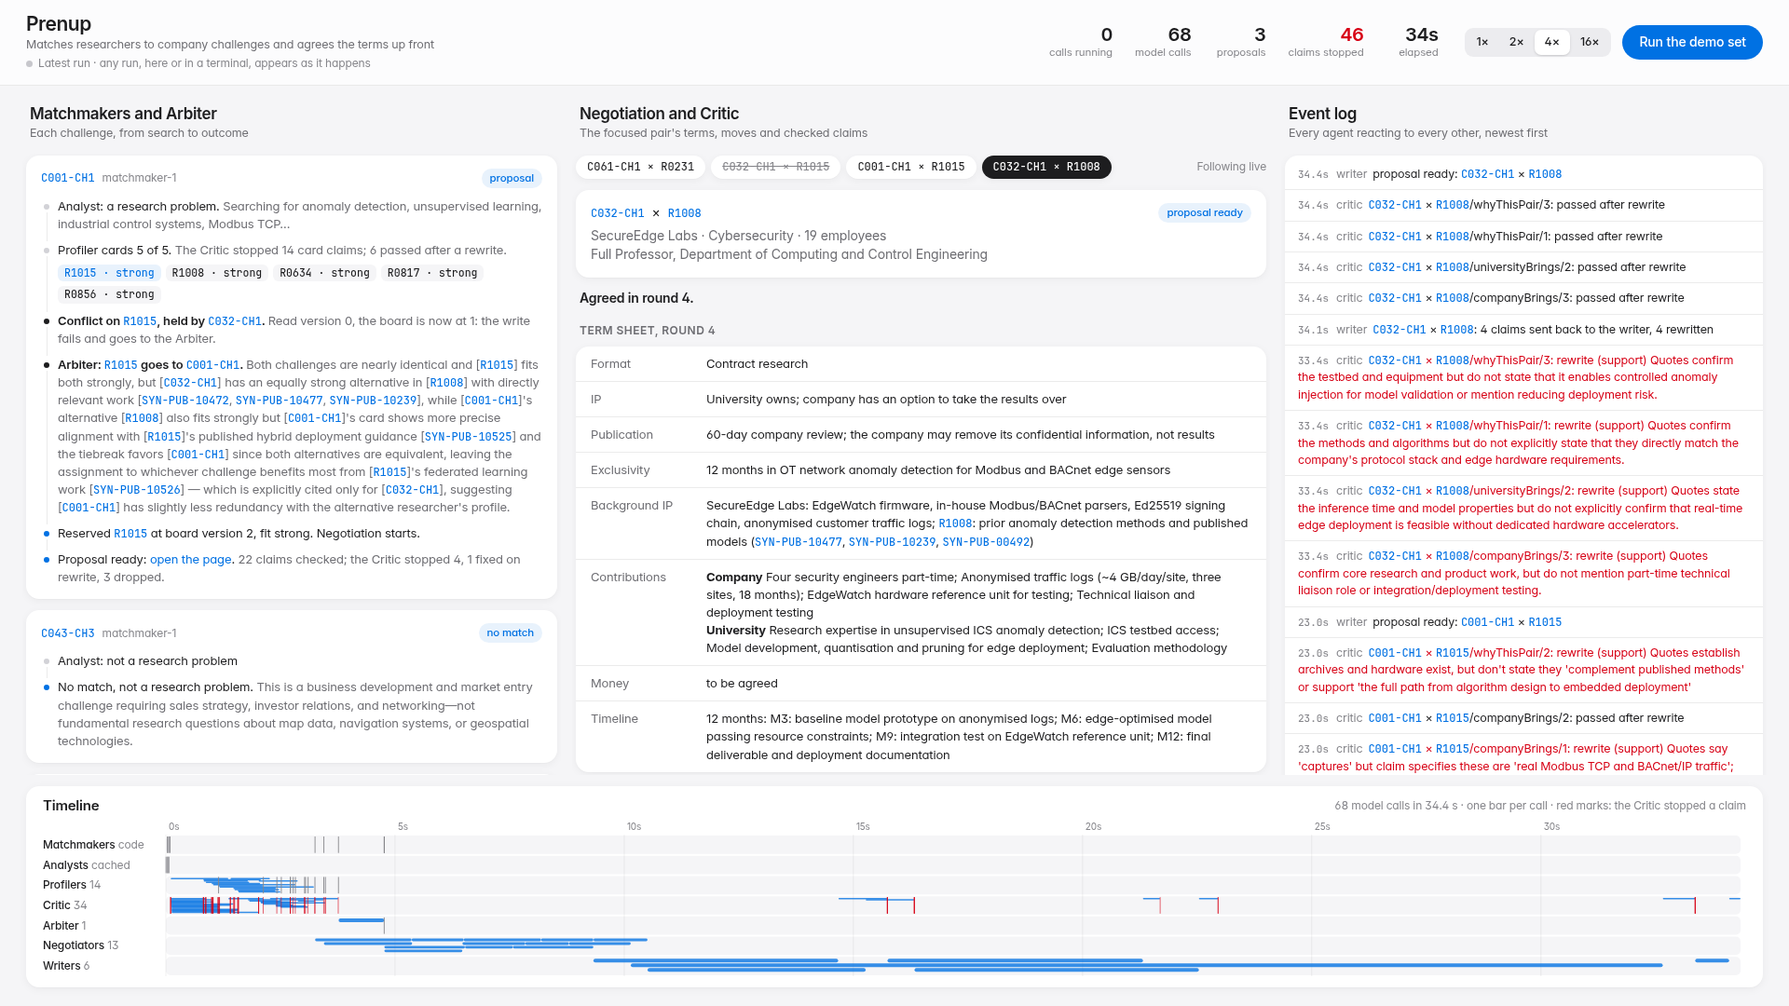
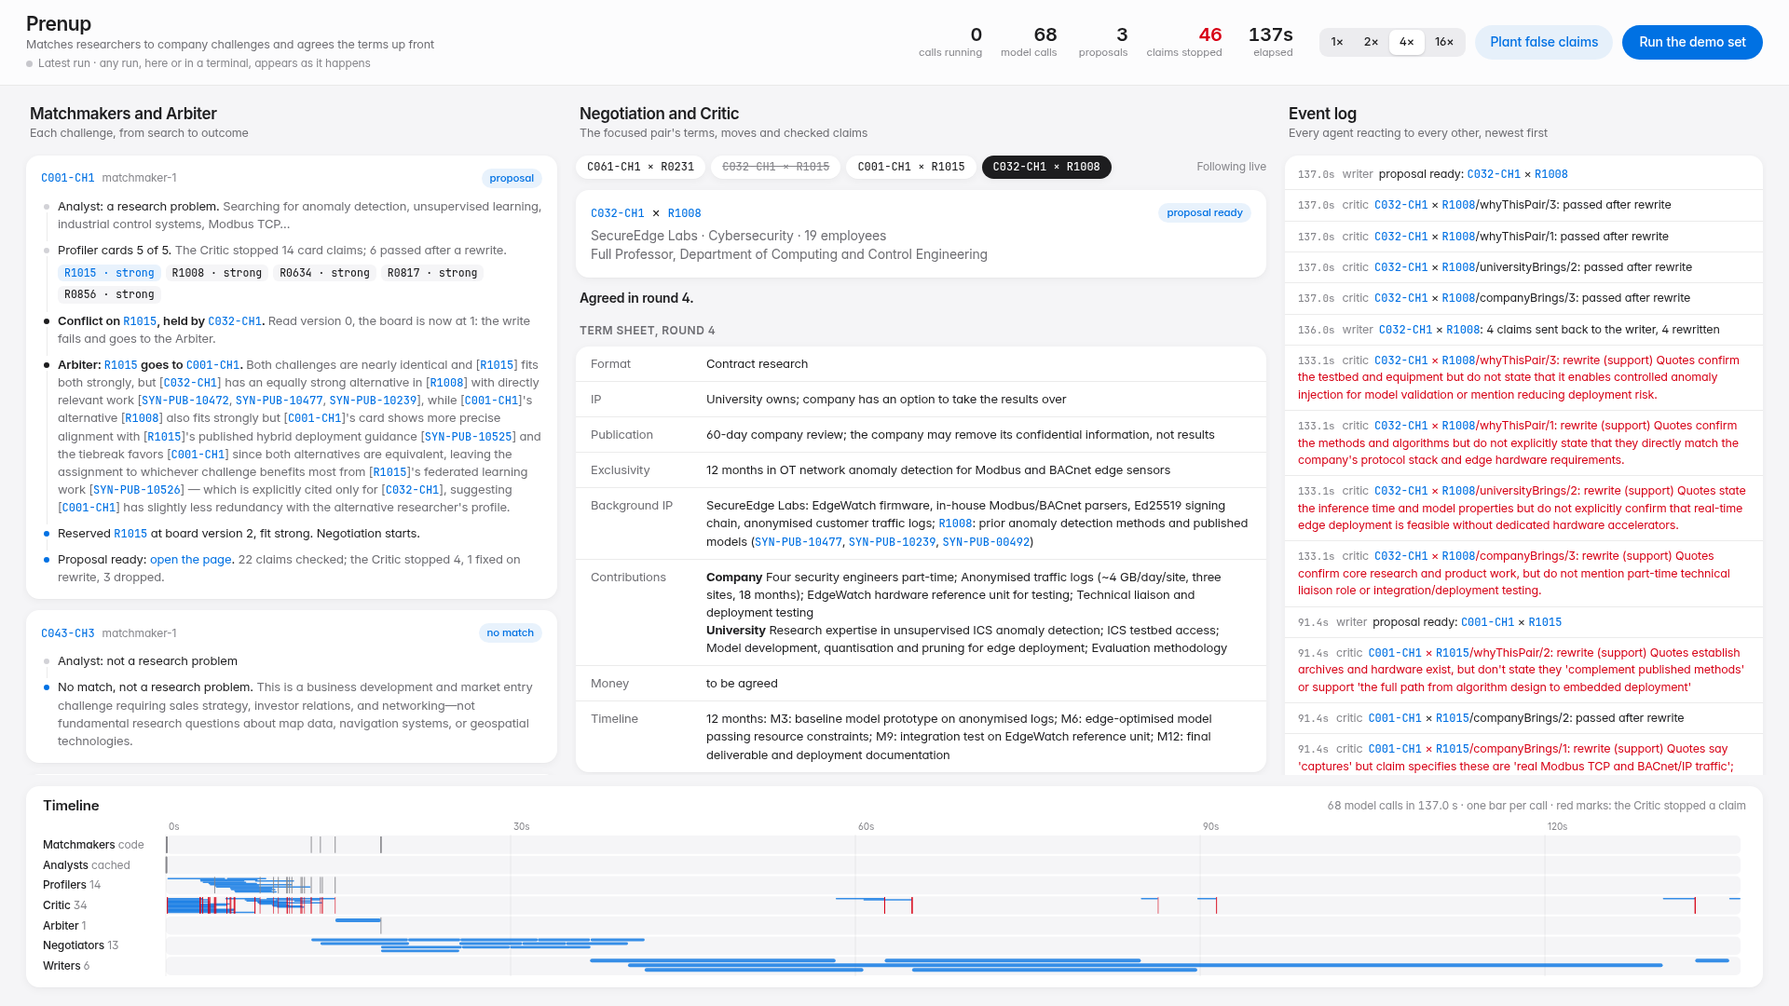
feat(board): "Plant false claims" scene for the Critic test
- New board button: runs eval/critic.ts on the recorded answers (no key)
  with its own trace. The board shows each planted claim, the source it
  cites and the check that stopped it, same-name swaps first, with a
  count by kind and planted / stopped / code checks / support check in
  the header. 20 of 20 stopped.
- eval/critic.ts: --trace (board mode, no out/eval JSON), --paced, and a
  prenup.eval.planted event naming each fault's kind.
- Header no longer wraps at 1440 px; README screenshot from a
  real-speed run (68 calls in 137 s).

diff --git a/src/board/index.html b/src/board/index.html
@@ -38,19 +38,21 @@
   .brand .status i { width: 7px; height: 7px; border-radius: 50%; background: #c7c7cc; }
   .brand .status i.live { background: var(--accent); box-shadow: 0 0 0 0 rgba(0, 113, 227, .5); animation: pulse 1.6s ease-out infinite; }
   @keyframes pulse { to { box-shadow: 0 0 0 7px rgba(0, 113, 227, 0); } }
-  .stats { display: flex; gap: 24px; margin-left: auto; }
+  .stats { display: flex; gap: 20px; margin-left: auto; }
   .stat { display: flex; flex-direction: column; align-items: flex-end; min-width: 56px; }
   .stat b { font: 600 20px/1.1 var(--display); letter-spacing: -0.02em; font-variant-numeric: tabular-nums; }
-  .stat span { color: var(--faint); font-size: 11.5px; }
+  .stat span { color: var(--faint); font-size: 11.5px; white-space: nowrap; }
   .stat.live b { color: var(--accent); }
   .stat.crit b { color: var(--red); }
-  .controls { display: flex; align-items: center; gap: 12px; }
+  .controls { display: flex; align-items: center; gap: 10px; white-space: nowrap; }
   .segmented { display: inline-flex; padding: 2px; border-radius: 9px; background: rgba(118, 118, 128, .12); }
   .segmented button { border: 0; background: transparent; color: var(--ink); padding: 4px 11px; border-radius: 7px; font-size: 12.5px; font-weight: 500; }
   .segmented button.on { background: var(--surface); box-shadow: 0 1px 3px rgba(0, 0, 0, .12), 0 1px 1px rgba(0, 0, 0, .04); }
   .primary { border: 0; border-radius: 980px; background: var(--accent); color: #fff; padding: 8px 18px; font-weight: 500; transition: background .2s, opacity .2s; }
   .primary:hover { background: #0077ed; }
-  .primary:disabled { opacity: .45; cursor: default; }
+  .primary:disabled, .secondary:disabled { opacity: .45; cursor: default; }
+  .secondary { border: 0; border-radius: 980px; background: var(--accent-soft); color: var(--accent); padding: 8px 16px; font-weight: 500; transition: background .2s; }
+  .secondary:hover { background: rgba(0, 113, 227, .14); }
 
   main { display: grid; grid-template-columns: minmax(0, 1fr) minmax(0, 1.3fr) minmax(0, .9fr); gap: 20px; padding: 20px 28px 12px; min-height: 0; }
   section { display: flex; flex-direction: column; min-height: 0; }
@@ -109,6 +111,14 @@
   .stop .then.fixed { color: var(--accent); font-weight: 500; }
   .stop .then.dropped, .stop .then.wait { color: var(--muted); }
   .muted { color: var(--muted); }
+  .fault { background: var(--surface); border-radius: 12px; box-shadow: var(--shadow); padding: 12px 14px; margin-bottom: 8px; font-size: 13px; }
+  .fault .claim { font-weight: 500; }
+  .fault .src { margin-top: 4px; color: var(--faint); font-size: 12px; }
+  .fault .stop { margin: 8px 0 0; padding: 7px 10px; }
+  .fault .checking { margin-top: 8px; color: var(--faint); font-size: 12.5px; }
+  .kinds .row { grid-template-columns: 1fr auto; }
+  .kinds .row b { font-variant-numeric: tabular-nums; }
+  .kinds .row b.crit { color: var(--red); }
 
   .log { background: var(--surface); border-radius: 14px; box-shadow: var(--shadow); padding: 4px 0; }
   .log div { padding: 7px 14px; border-top: 1px solid var(--line); font-size: 12.5px; }
@@ -128,6 +138,7 @@
   [data-enter] { animation: enter .4s ease-out both; }
   @keyframes enter { from { opacity: 0; transform: translateY(4px); } to { opacity: 1; transform: none; } }
   @media (prefers-reduced-motion: reduce) { [data-enter] { animation: none; } }
+  @media (max-width: 1500px) { .brand .tagline { display: none; } header { gap: 20px; } }
   @media (max-width: 1100px) {
     body { display: block; }
     header { flex-wrap: wrap; gap: 14px; padding: 12px 16px; }
@@ -142,7 +153,7 @@
 <header>
   <div class="brand">
     <h1>Prenup</h1>
-    <p>Matches researchers to company challenges and agrees the terms up front</p>
+    <p class="tagline">Matches researchers to company challenges and agrees the terms up front</p>
     <p class="status"><i id="dot"></i><span id="note">Following the latest run</span></p>
   </div>
   <div class="stats" id="stats"></div>
@@ -150,12 +161,13 @@
     <div class="segmented" id="speed" role="radiogroup" aria-label="Replay speed">
       <button data-speed="1">1×</button><button data-speed="2">2×</button><button data-speed="4" class="on">4×</button><button data-speed="16">16×</button>
     </div>
+    <button class="secondary" id="plant" title="20 false claims built from real records, checked by the Critic">Plant false claims</button>
     <button class="primary" id="run">Run the demo set</button>
   </div>
 </header>
 <main>
-  <section><h2>Matchmakers and Arbiter</h2><p class="sub">Each challenge, from search to outcome</p><div class="scroll" id="challenges"></div></section>
-  <section><h2>Negotiation and Critic</h2><p class="sub">The focused pair's terms, moves and checked claims</p><div class="scroll" id="pair"></div></section>
+  <section><h2 id="h-left">Matchmakers and Arbiter</h2><p class="sub" id="s-left">Each challenge, from search to outcome</p><div class="scroll" id="challenges"></div></section>
+  <section><h2 id="h-mid">Negotiation and Critic</h2><p class="sub" id="s-mid">The focused pair's terms, moves and checked claims</p><div class="scroll" id="pair"></div></section>
   <section><h2>Event log</h2><p class="sub">Every agent reacting to every other, newest first</p><div class="scroll"><div class="log" id="log"></div></div></section>
 </main>
 <div id="strip"><div class="card"><div class="top"><h2>Timeline</h2><span id="span">One row per kind of participant, one bar per model call</span></div><svg id="timeline"></svg></div></div>
@@ -196,7 +208,7 @@ function group(producer) {
 // continues across redraws (negative delay) instead of restarting or being cut short.
 let S
 function reset() {
-  S = { t0: null, tLast: 0, seq: 0, born: [], challenges: new Map(), pairs: new Map(), loops: new Map(), ticks: [], log: [], stops: 0, focus: null, pinned: false, records: new Map() }
+  S = { t0: null, tLast: 0, seq: 0, born: [], challenges: new Map(), pairs: new Map(), loops: new Map(), ticks: [], log: [], stops: 0, focus: null, pinned: false, records: new Map(), faults: null }
   dirty()
 }
 const FADE_MS = 400
@@ -259,8 +271,22 @@ function apply(e) {
       tick()
       log(e, `${p.researcherId} card for ${p.challengeId}: fit ${p.fit}${p.flags.length ? `, flags: ${p.flags.map((f) => f.kind).join(", ")}` : ""}`)
       break
+    case "prenup.eval.planted":
+      S.faults = { list: p.faults.map((f) => ({ ...f, seq: next() })), claims: {}, verdicts: {} }
+      log(e, `planted ${p.faults.length} false claims, built by code from real records`)
+      break
+    case "prenup.critic.check":
+      if (S.faults && p.pairId.startsWith("eval:")) for (const c of p.claims) S.faults.claims[c.id] = c
+      break
     case "prenup.critic.verdict": {
       const stopped = p.verdict !== "pass"
+      if (p.pairId.startsWith("eval:") && S.faults) {
+        S.faults.verdicts[p.claimId] = { ...p, seq: next() }
+        if (stopped) S.stops++
+        log(e, `${p.claimId}: ${stopped ? `${p.verdict} (${p.check}) ${p.reason}` : "passed"}`, stopped ? "crit" : "")
+        if (stopped) tick(true)
+        break
+      }
       if (stopped && p.attempt === 1) S.stops++ // first-pass stops, as the README counts them
       if (p.pairId.startsWith("profile:")) {
         const c = challenge(p.pairId.slice(8).split("__")[0])
@@ -359,10 +385,23 @@ function dirty() {
   })
 }
 
+const TITLES = {
+  demo: ["Matchmakers and Arbiter", "Each challenge, from search to outcome", "Negotiation and Critic", "The focused pair's terms, moves and checked claims"],
+  plant: ["Critic test", "False claims planted on purpose, by kind", "Planted claims", "Each claim, its source, and the check that stopped it"],
+}
+
 function render() {
+  const [hl, sl, hm, sm] = TITLES[S.faults ? "plant" : "demo"]
+  $("h-left").textContent = hl
+  $("s-left").textContent = sl
+  $("h-mid").textContent = hm
+  $("s-mid").textContent = sm
   renderStats()
-  renderChallenges()
-  renderPair()
+  if (S.faults) renderFaults()
+  else {
+    renderChallenges()
+    renderPair()
+  }
   renderLog()
   renderTimeline()
   // Keep redrawing while something is still fading in.
@@ -374,6 +413,12 @@ function renderStats() {
   const running = loops.filter((l) => l.end === null).length
   const proposals = [...S.pairs.values()].filter((p) => p.ready).length
   const stat = (value, label, cls = "") => `<div class="stat ${cls}"><b>${value}</b><span>${label}</span></div>`
+  if (S.faults) {
+    const vs = Object.values(S.faults.verdicts)
+    const stopped = vs.filter((v) => v.verdict !== "pass")
+    const bySupport = stopped.filter((v) => v.check === "support").length
+    return void ($("stats").innerHTML = [stat(S.faults.list.length, "planted"), stat(stopped.length, "stopped", stopped.length ? "crit" : ""), stat(stopped.length - bySupport, "code checks"), stat(bySupport, "support check"), stat(loops.length, loops.length === 1 ? "model call" : "model calls")].join(""))
+  }
   $("stats").innerHTML = S.t0
     ? [stat(running, "calls running", running ? "live" : ""), stat(loops.length, "model calls"), stat(proposals, proposals === 1 ? "proposal" : "proposals"), stat(S.stops, "claims stopped", S.stops ? "crit" : ""), stat(`${at(S.tLast).toFixed(0)}s`, "elapsed")].join("")
     : ""
@@ -456,6 +501,36 @@ function renderPair() {
   $("pair").innerHTML = `${header}${who}${outcome ? `<p class="outcome">${outcome}</p>` : ""}${terms}${moves}${critic}${ready}`
 }
 
+// The Critic test: what was planted, and which check stopped each claim. Same-name swaps first: the demo points at one.
+const KINDS = ["same-name swap", "says more than its quote", "unavailable person", "engagement not in open_to", "invented money", "altered quote", "fake id"]
+function renderFaults() {
+  const F = S.faults
+  const verdict = (f) => F.verdicts[f.claimId]
+  const caught = (f) => verdict(f) && verdict(f).verdict !== "pass"
+  const done = Object.keys(F.verdicts).length === F.list.length
+  const n = F.list.filter(caught).length
+  const kinds = KINDS.filter((k) => F.list.some((f) => f.kind === k))
+  $("challenges").innerHTML = `<div class="card"><div class="top"><span class="who"><b>Planted false claims</b></span><span class="pill">${done ? `${n} of ${F.list.length} stopped` : "checking…"}</span></div>
+      <p class="why" style="margin:8px 0 0">Built by code from real records and sent to the Critic as one check, the way a writer's draft is: code checks first, then one cheap-model support check for what passes them. Planted on purpose.</p></div>
+    <div class="group kinds">${kinds.map((k) => {
+      const mine = F.list.filter((f) => f.kind === k)
+      const got = mine.filter(caught).length
+      return `<div class="row"><span>${esc(k[0].toUpperCase() + k.slice(1))}</span><b class="${done && got ? "crit" : ""}">${done ? `${got} / ${mine.length}` : `… / ${mine.length}`}</b></div>`
+    }).join("")}</div>`
+  $("pair").innerHTML = kinds.map((k) => `<div class="label">${esc(k)}</div>${F.list.filter((f) => f.kind === k).map((f) => {
+    const c = F.claims[f.claimId]
+    const v = verdict(f)
+    const src = c?.sources[0]
+    const quote = src ? (src.quote.length > 90 ? `${src.quote.slice(0, 90)}…` : src.quote) : ""
+    const result = !v ? `<div class="checking">Checking…</div>`
+      : v.verdict === "pass" ? `<div class="checking">Passed: not caught</div>`
+      : `<div class="stop"><span class="what">Stopped · ${esc(v.check)}</span> ${linked(v.reason)}</div>`
+    return `<div class="fault"${anim(f)}><div class="claim">${c ? linked(c.text) : esc(f.claimId)}</div>
+      ${src ? `<div class="src">Cites ${src.id.startsWith("move:") ? "the term sheet" : idLink(src.id)} · ${esc(src.field)} · “${esc(quote)}”</div>` : ""}
+      <div class="src">Planted: ${linked(f.planted)}</div>${result}</div>`
+  }).join("")}`).join("")
+}
+
 function renderLog() {
   $("log").innerHTML = S.log.length ? S.log.slice(-300).reverse().map((l) =>
     `<div class="${l.cls}"${anim(l)}><span class="t">${l.t ? `${at(l.t).toFixed(1)}s` : ""}</span>${l.producer ? `<span class="p">${esc(l.producer)}</span>` : ""}${linked(l.text)}</div>`).join("") : `<div class="empty">Events appear here as agents emit them.</div>`
@@ -514,6 +589,7 @@ document.addEventListener("click", (ev) => {
   }
 })
 $("run").addEventListener("click", () => fetch(`/run?speed=${speed}`, { method: "POST" }))
+$("plant").addEventListener("click", () => fetch("/plant", { method: "POST" }))
 window.addEventListener("resize", dirty)
 
 reset()
@@ -528,12 +604,14 @@ source.addEventListener("log", (msg) => {
 })
 source.addEventListener("status", (msg) => {
   const s = JSON.parse(msg.data)
-  $("run").disabled = s.running
-  $("run").textContent = s.running ? "Running…" : "Run the demo set"
+  $("run").disabled = $("plant").disabled = s.running
+  $("run").textContent = s.running && s.scene === "demo" ? "Running…" : "Run the demo set"
   $("dot").classList.toggle("live", s.running)
-  $("note").textContent = s.running
-    ? `Live · recorded answers at their recorded latency ÷${s.speed} · no key, no network`
-    : "Latest run · any run, here or in a terminal, appears as it happens"
+  $("note").textContent = !s.running
+    ? "Latest run · any run, here or in a terminal, appears as it happens"
+    : s.scene === "plant"
+      ? "Live · 20 planted false claims, checked like a writer's draft · recorded answers, no key"
+      : `Live · recorded answers at their recorded latency ÷${s.speed} · no key, no network`
 })
 </script>
 </body>

diff --git a/eval/critic.ts b/eval/critic.ts
@@ -1,11 +1,13 @@
-// npm run eval:critic [-- --replay] [-- --no-support]: plants 20 false claims of 7 kinds, built by code from real records, and sends them
+// npm run eval:critic [-- --replay] [-- --no-support] [-- --paced] [-- --trace=PATH]: plants 20 false claims of 7 kinds, built by code from real records, and sends them
 // to the Critic as one check request, the way the writer does (deterministic checks, then one cheap-model support check).
 // Reports which check caught each and which got through. Writes out/eval/critic.json. The faults go to the Critic
 // directly, not through the writer, so this measures the Critic, not whether a writer would make these mistakes.
+// With --trace (the board's "Plant false claims"), it writes a trace for the board instead of out/eval/.
 import "../src/env"
 import { mkdirSync, writeFileSync } from "node:fs"
 import { createHuman, SemanticEvent } from "@mozaik-ai/core"
 import { createCritic, type Verdict } from "../src/agents/critic"
+import { createTraceObserver } from "../src/agents/observer"
 import { RecordingRunner } from "../src/llm/runner"
 import { MODELS } from "../src/models"
 import { Board, initializeRuntime, join, on, sendEvent } from "../src/runtime"
@@ -19,6 +21,9 @@ type Fault = { kind: Kind; claim: Claim; planted: string }
 const data = Dataset.load()
 const mode = process.argv.includes("--replay") ? "replay" : "record"
 const support = !process.argv.includes("--no-support") // ablation: the deterministic checks alone
+const flag = (name: string) => process.argv.find((arg) => arg.startsWith(`--${name}`))?.split("=")[1]
+const trace = flag("trace")
+const pace = process.argv.some((arg) => arg.startsWith("--paced")) ? Number(flag("paced") ?? 1) || 1 : undefined
 const words = (text: string, from: number, n: number) => text.split(/\s+/).slice(from, from + n).join(" ")
 const authored = (rid: string): Publication[] =>
   data.researchers.get(rid)!.publications.map((id) => data.publications.get(id)!).filter((p) => p?.authors.some((a) => a.researcher_id === rid))
@@ -64,8 +69,9 @@ const faults: Fault[] = [
   { kind: "says more than its quote", planted: "real verbatim quote, sentence claims the hybrid approach was proven in the field", claim: fact(20, "R1015", "R1015 proved in field trials that hybrid detectors outperform every other approach.", p10525.id, "abstract", words(p10525.abstract, 0, 14)) },
 ]
 
-const runner = new RecordingRunner({ mode })
+const runner = new RecordingRunner({ mode, pace })
 initializeRuntime({ state: new Board(), inferenceRunnerConfig: { runner } })
+if (trace) join(createTraceObserver(trace))
 join(createCritic({ data, move: (pairId, round) => (round === 1 ? moves.get(pairId) : undefined) }, { support }))
 const reader = createHuman({
   name: "eval",
@@ -96,9 +102,11 @@ function report(verdicts: Verdict[]): void {
     byCheck,
     faults: rows,
   }
-  mkdirSync("out/eval", { recursive: true })
-  const out = support ? "out/eval/critic.json" : "out/eval/critic-no-support.json"
-  writeFileSync(out, JSON.stringify(result, null, 2) + "\n")
+  const out = trace ?? (support ? "out/eval/critic.json" : "out/eval/critic-no-support.json")
+  if (!trace) {
+    mkdirSync("out/eval", { recursive: true })
+    writeFileSync(out, JSON.stringify(result, null, 2) + "\n")
+  }
   console.log(`caught ${result.caught}/${result.planted} planted false claims`)
   for (const k of byKind) console.log(`  ${k.kind}: ${k.caught}/${k.planted}`)
   for (const r of rows.filter((r) => !r.caught)) console.log(`  MISSED (${r.kind}): ${r.claim}`)
@@ -108,4 +116,6 @@ function report(verdicts: Verdict[]): void {
   process.exit(0)
 }
 
+// What was planted and why, for the board's labels; then the claims go to the Critic like a writer's draft.
+sendEvent(SemanticEvent.create("prenup.eval.planted", reader.getId(), { pairId: "eval:faults", faults: faults.map((f) => ({ claimId: f.claim.id, kind: f.kind, planted: f.planted })) }), reader.getId())
 sendEvent(SemanticEvent.create("prenup.critic.check", reader.getId(), { pairId: "eval:faults", claims: faults.map((f) => f.claim) }), reader.getId())

diff --git a/src/board/server.ts b/src/board/server.ts
@@ -2,6 +2,7 @@
 // line to the page (Server-Sent Events). "Run" starts `src/run.ts --replay --paced=N` with its own trace file, so the
 // committed out/trace.jsonl stays as it is: the agents run again on the recorded answers, each answer arriving after its
 // recorded latency divided by N. No key, no network. A run started in a terminal (out/trace.jsonl) shows up too.
+// "Plant false claims" starts the Critic test (eval/critic.ts): 20 planted claims, checked as one writer draft would be.
 import { spawn, type ChildProcess } from "node:child_process"
 import { closeSync, existsSync, openSync, readFileSync, readSync, statSync } from "node:fs"
 import { createServer, type ServerResponse } from "node:http"
@@ -19,7 +20,8 @@ let offset = 0
 let head = ""
 let rest = Buffer.alloc(0)
 const clients = new Set<ServerResponse>()
-let run: { child: ChildProcess; speed: number } | undefined
+type Scene = "demo" | "plant"
+let run: { child: ChildProcess; speed: number; scene: Scene } | undefined
 let data: Dataset | undefined
 
 function send(res: ServerResponse, event: string, payload: string): void {
@@ -81,12 +83,13 @@ function poll(): void {
 }
 
 function status(): string {
-  return JSON.stringify(run ? { running: true, speed: run.speed } : { running: false })
+  return JSON.stringify(run ? { running: true, speed: run.speed, scene: run.scene } : { running: false })
 }
 
-function startRun(speed: number): void {
-  const child = spawn("node_modules/.bin/tsx", ["src/run.ts", "--replay", `--paced=${speed}`, `--trace=${TRACES[1]}`], { stdio: ["ignore", "pipe", "pipe"] })
-  run = { child, speed }
+function startRun(scene: Scene, speed: number): void {
+  const script = scene === "demo" ? "src/run.ts" : "eval/critic.ts"
+  const child = spawn("node_modules/.bin/tsx", [script, "--replay", `--paced=${speed}`, `--trace=${TRACES[1]}`], { stdio: ["ignore", "pipe", "pipe"] })
+  run = { child, speed, scene }
   broadcast("status", status())
   const forward = (chunk: Buffer) => {
     for (const line of chunk.toString("utf8").split("\n").filter((l) => l && !l.startsWith("mozaik cloud"))) broadcast("log", JSON.stringify(line))
@@ -118,10 +121,11 @@ const server = createServer((req, res) => {
     return void req.on("close", () => clients.delete(res))
   }
 
-  if (path === "/run" && req.method === "POST") {
+  if ((path === "/run" || path === "/plant") && req.method === "POST") {
     if (run) return void res.writeHead(409).end("a run is in progress")
-    const speed = Math.min(Math.max(Number(url.searchParams.get("speed")) || 4, 1), 64)
-    startRun(speed)
+    // The planted claims run at recorded pace: one support-check call, a couple of seconds.
+    const speed = path === "/plant" ? 1 : Math.min(Math.max(Number(url.searchParams.get("speed")) || 4, 1), 64)
+    startRun(path === "/run" ? "demo" : "plant", speed)
     return void res.writeHead(202).end()
   }
 

diff --git a/README.md b/README.md
@@ -29,7 +29,7 @@ npm run setup && npm run demo -- --replay
 npm run board
 ```
 
-Open http://localhost:4173 and press **Run the demo set**. The agents run again on the recorded answers, and each answer arrives after the latency measured when it was recorded (4x faster by default), so the board shows the shape of the live run with no key: matchmakers and the Arbiter on the left, the focused pair's negotiation and every claim the Critic stopped in the middle, the event log on the right, and one bar per model call on the timeline. Ids link to the cited dataset record, and the header counts calls running, model calls, proposals and claims the Critic stopped. Run writes its own trace (`out/tmp/trace.board.jsonl`), so the committed one stays as it is; the board always shows the newest run, so an `npm run demo` started in a terminal shows up too. `npm run demo -- --replay --paced[=N]` is the same paced run from the command line.
+Open http://localhost:4173 and press **Run the demo set**. The agents run again on the recorded answers, and each answer arrives after the latency measured when it was recorded (4x faster by default), so the board shows the shape of the live run with no key: matchmakers and the Arbiter on the left, the focused pair's negotiation and every claim the Critic stopped in the middle, the event log on the right, and one bar per model call on the timeline. Ids link to the cited dataset record, and the header counts calls running, model calls, proposals and claims the Critic stopped. **Plant false claims** runs the Critic test on the board: the 20 planted claims below, each with its source and the check that stopped it. Both buttons write their own trace (`out/tmp/trace.board.jsonl`), so the committed one stays as it is; the board always shows the newest run, so an `npm run demo` started in a terminal shows up too. `npm run demo -- --replay --paced[=N]` is the same paced run from the command line.
 
 The default run takes the demo set of four challenges. Other challenges (`npm run demo -- C012-CH3 C041-CH2`) need your own Anthropic key in `.env` the first time: `npm run demo` calls the model only for answers not yet recorded, and records them.
 
